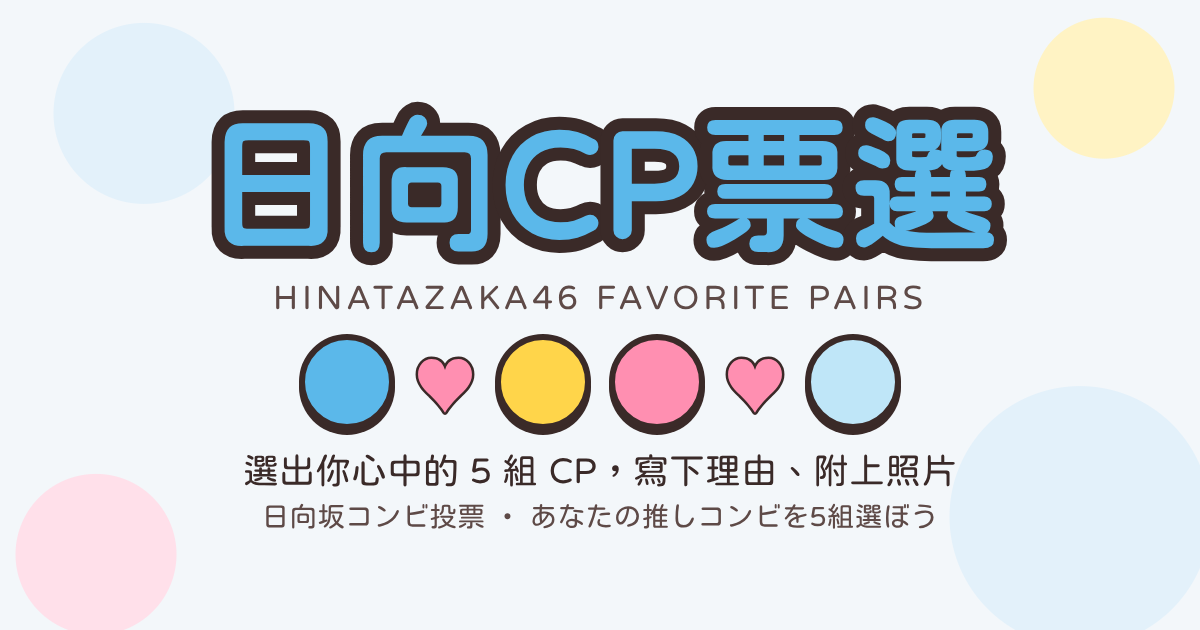
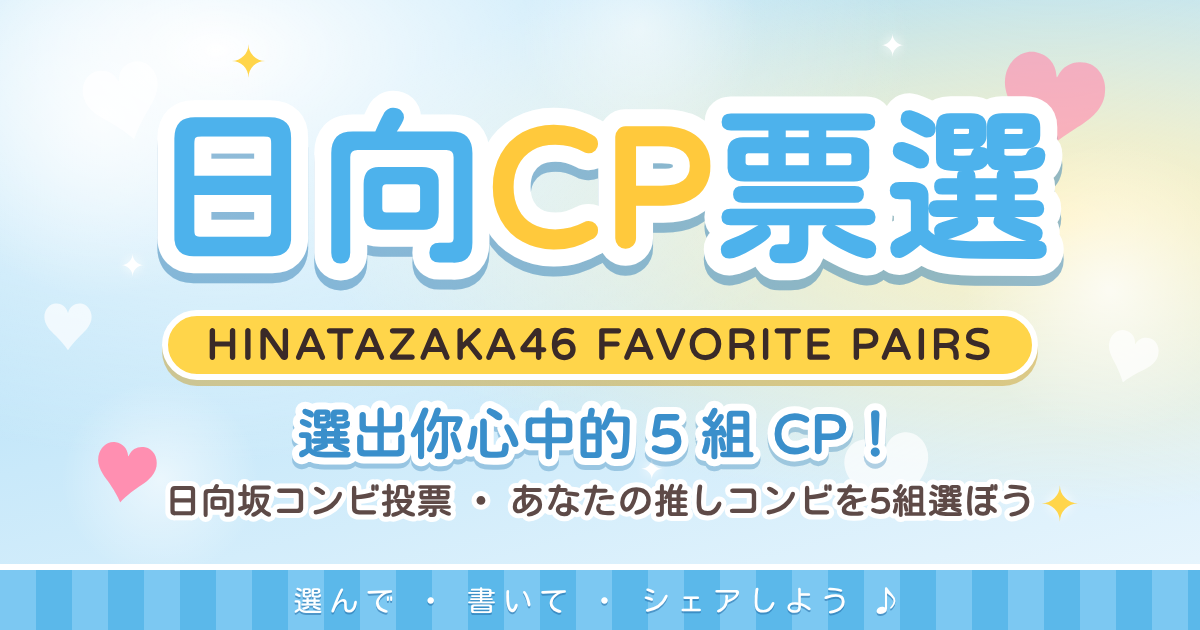
CP票選：換上天空藍＋黃色連結預覽圖
Claude-Session: https://claude.ai/code/session_01NvHActDrzQDWsNJtJTMxa9

diff --git a/cp/index.html b/cp/index.html
@@ -11,7 +11,7 @@
 <meta property="og:title" content="日向CP票選｜日向坂コンビ投票">
 <meta property="og:description" content="選出你心中的 5 組 CP，寫下理由、附上照片喔♪ あなたの推しコンビを5組選ぼう！">
 <meta property="og:url" content="https://hinata-col.github.io/main/cp/">
-<meta property="og:image" content="https://hinata-col.github.io/main/cp/og.png">
+<meta property="og:image" content="https://hinata-col.github.io/main/cp/og.png?v=2">
 <meta property="og:image:width" content="1200">
 <meta property="og:image:height" content="630">
 <meta property="og:image:alt" content="日向CP票選 HINATAZAKA46 FAVORITE PAIRS">
